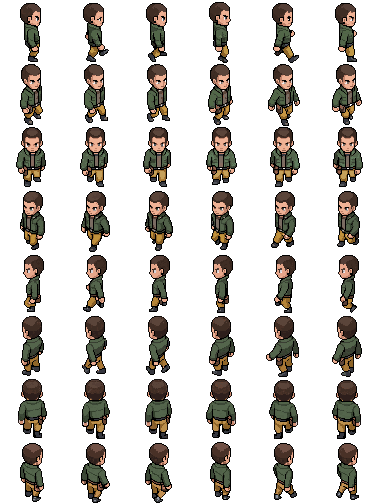
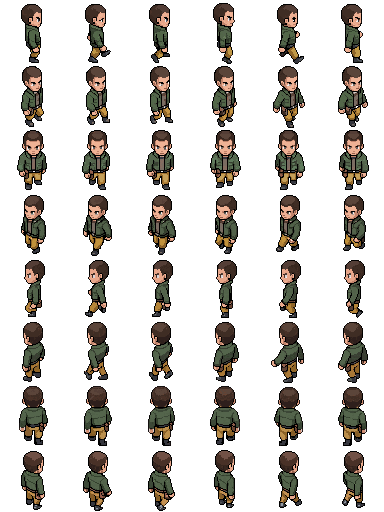
fix: sharpen the player sprite — odd frame size + no pixel snapping
The character read as blurry against crisp tiles. The art was not the cause:
alpha is binary and the palette is 34 colours in the source GIFs, so there is no
anti-aliasing to blame. Two rendering faults, both mine:

1. The generated frame was 63px — ODD. AnimatedSprite2D with centered=true puts
   the texture edge at half the frame size from the node position, so an odd side
   lands it on a half pixel and every art pixel straddles the world-pixel grid.
   The build tool now rounds the square side up to even (63 -> 64).

   This only became visible when PLAYER_SCALE went 2 -> 1: at 2x the half-pixel
   doubled into a whole one and hid the problem.

2. snap_2d_transforms_to_pixel / snap_2d_vertices_to_pixel were off, so a sprite
   at a fractional world position rendered its art pixels at non-integer screen
   offsets — some 1 screen pixel wide, some 2. The player position is
   MOVE_SPEED * delta, fractional on nearly every frame.

   These were deliberately held back when the display config landed, to keep one
   variable moving at a time, and then not revisited. That was the debt.

Verified by rendering at a deliberately fractional position (1280.37, 832.61) —
the previous worst case — and confirming uniform pixel blocks aligned to the tile
grid. Sheets are now 256x512 and 384x512; no code change was needed for the new
dimensions, since the loader derives the grid from the texture. All 8 directions
still resolve correctly. GUT 99 scripts passing.

diff --git a/tools/build_character_spritesheets.py b/tools/build_character_spritesheets.py
@@ -189,6 +189,11 @@ def main() -> int:
     src_w, src_h = all_frames[0].size
     bw, bh = box[2] - box[0], box[3] - box[1]
     side = max(bw, bh)
+    # Round the side UP TO EVEN. Sprite2D/AnimatedSprite2D with centered=true puts the
+    # texture edge at half the frame size from the node position — an odd side lands it
+    # on a half pixel, so every art pixel straddles the world-pixel grid and renders with
+    # uneven widths. It reads as a blurry sprite against crisp tiles.
+    side += side % 2
     cx, cy = (box[0] + box[2]) / 2, (box[1] + box[3]) / 2
     left = int(round(cx - side / 2))
     top = int(round(cy - side / 2))